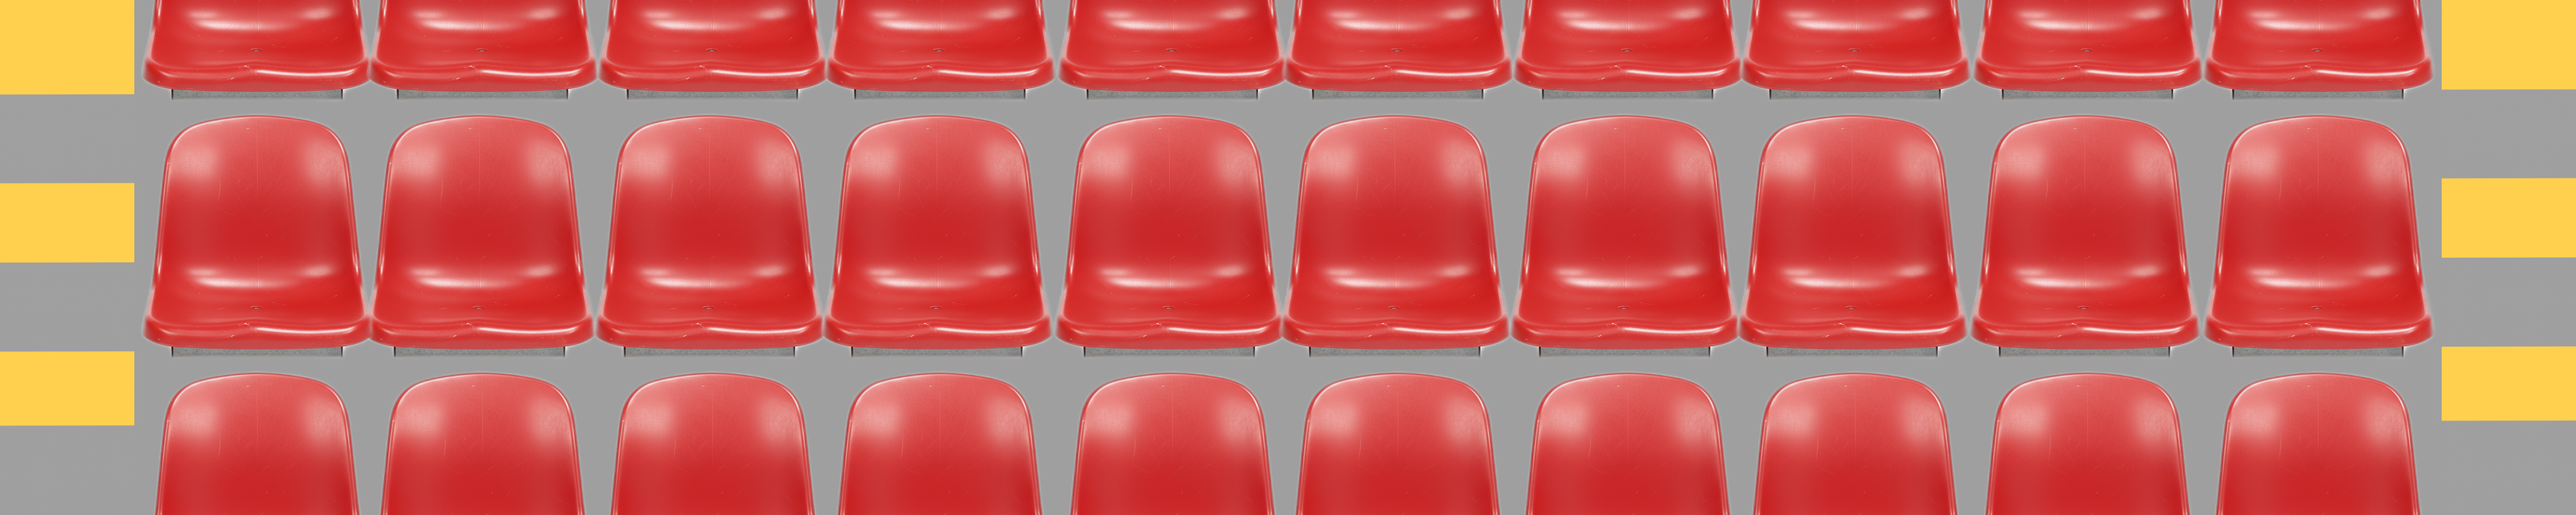
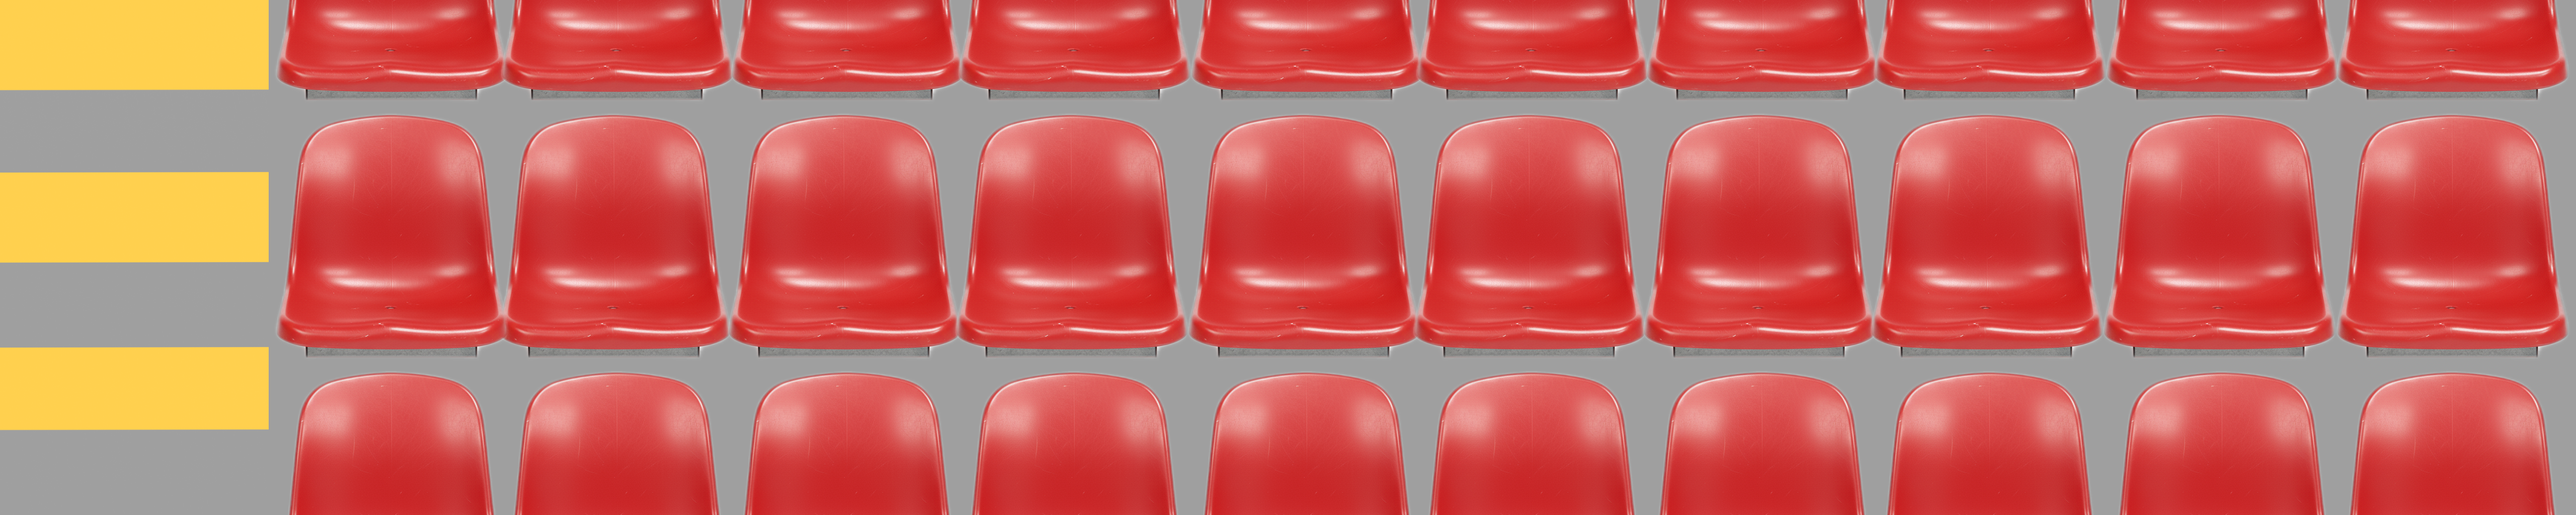
chore: stand center align

diff --git a/src/environment/stands.ts b/src/environment/stands.ts
@@ -64,7 +64,7 @@ export class Stands {
     const centerZ = adBoardDepth + config.position.zOffset - config.geometry.depth / 2;
     const centerY = config.position.y + config.geometry.height / 2;
 
-    this.mesh.position.set(0, centerY, centerZ);
+    this.mesh.position.set(config.position.x, centerY, centerZ);
     this.mesh.rotation.z = Math.PI;
 
     scene.add(this.mesh);
@@ -83,7 +83,7 @@ export class Stands {
     });
 
     // 물리 바디 위치 및 회전 설정
-    this.body.position.set(0, centerY, centerZ);
+    this.body.position.set(config.position.x, centerY, centerZ);
     this.body.quaternion.setFromEuler(0, 0, Math.PI);
 
     world.addBody(this.body);

diff --git a/src/config/stands.ts b/src/config/stands.ts
@@ -7,6 +7,7 @@ export interface StandsConfig {
   };
   // 위치
   position: {
+    x: number;        // x축 위치
     y: number;          // 바닥으로부터 높이
     zOffset: number;    // 광고판으로부터의 거리
   };
@@ -36,6 +37,7 @@ export const STANDS_CONFIG: StandsConfig = {
     depth: 15            // 경사 깊이
   },
   position: {
+    x: 1,              // x축 위치 (기본 0)
     y: 0,
     zOffset: -2          // 광고판 뒤 2m
   },
